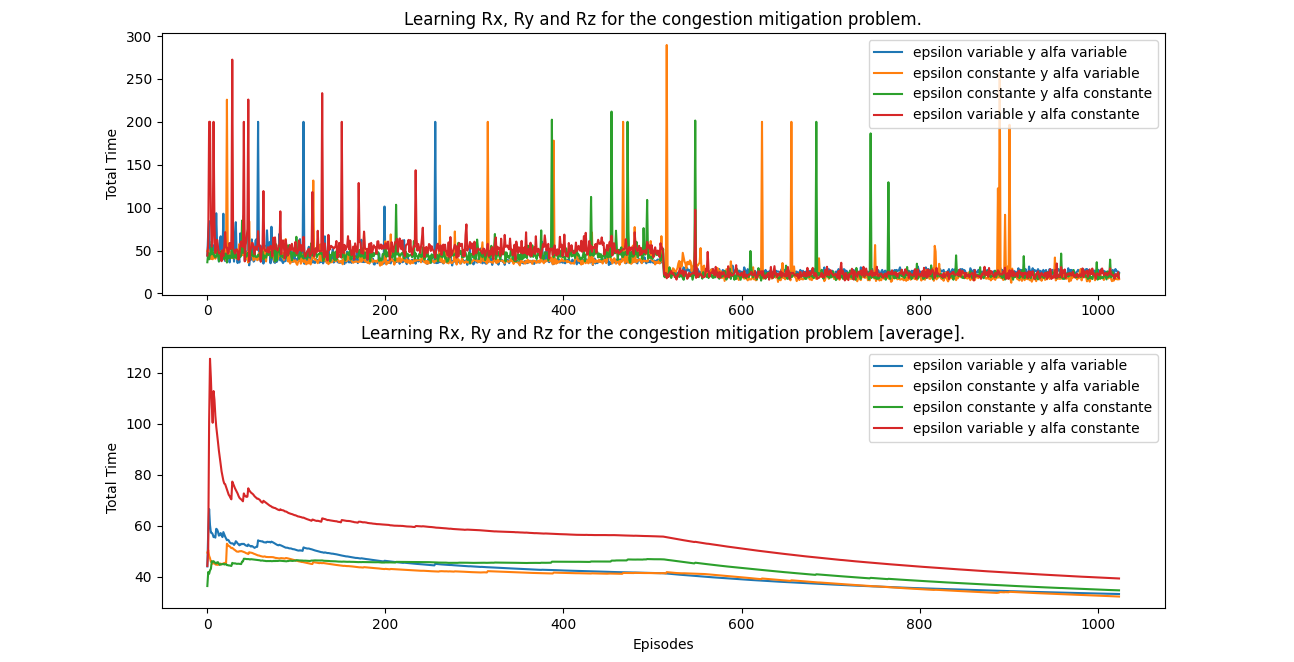
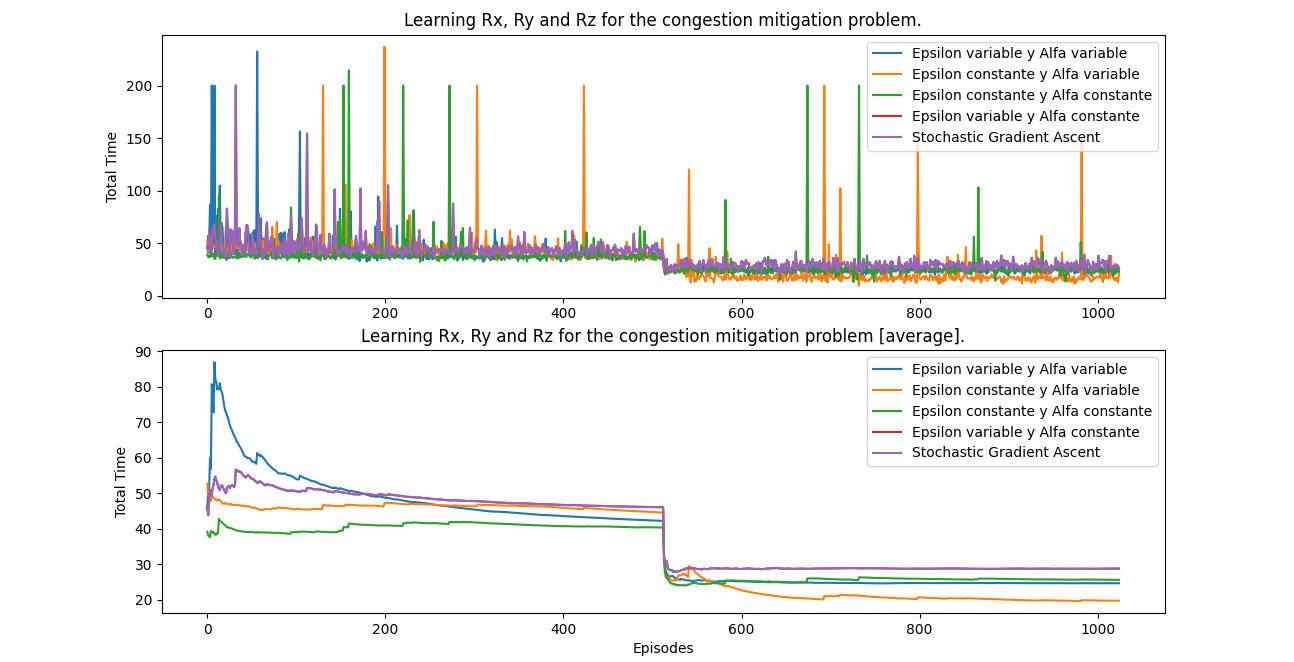
rl-qgt-stochastic

diff --git a/paper/rl_qgt_routing_stochastic.py b/paper/rl_qgt_routing_stochastic.py
@@ -1,4 +1,5 @@
 import copy
+from email import policy
 import time
 import pickle                      
 import random
@@ -10,7 +11,7 @@ from qiskit import QuantumCircuit, Aer, execute
 from qiskit.quantum_info import Operator
 from qiskit.extensions import RXGate, RYGate, RZGate          
 
-################################################## Quantum Game
+##################################################
 def generar_mapa(n1, n3):
     a = 0
     while (np.linalg.matrix_rank(a)!=n1):
@@ -181,8 +182,8 @@ def reward_qnet(rx, ry, rz, n3):
     if checkear_nozero([rx,ry,rz,1]) == 0:
         return 200
 
-    n1 = 10                                       # cantidad de ciudades
-    n2 = 100                                      # cantidad de paquetes
+    n1 = 10                                                                                         # cantidad de ciudades
+    n2 = 100                                                                                        # cantidad de paquetes
     p1 = [rx, ry, rz, 1]
 
     a = generar_mapa(n1, n3)                      # genero matriz
@@ -224,13 +225,13 @@ def reward_qnet(rx, ry, rz, n3):
 
     return (t1 + temp)
 
-################################################## Network settings
+##################################################
 
 HM_EPISODES = 2 * 512 + 1
 SHOW_EVERY = 16
 N_SIZE = 3
-n3 = [[14, 0.14],                    # distancias máximas
-      [0, 512, HM_EPISODES]]
+n3 = [[14,      0.14],                    # distancias máximas
+      [0,       512,     HM_EPISODES]]
 
 """
 HM_EPISODES = 2 * 4092 + 1
@@ -243,74 +244,9 @@ n3 = [[0.14, 14],                    # distancias máximas
 final_t = []
 final_m = []
 angulos = np.arange(0, 2 * np.pi, 2 * np.pi / np.power(2, N_SIZE))
-all_actions = [(rx,ry,rz) for rx in angulos for ry in angulos for rz in angulos] 
-
-################################################## Epsilon and Alfa
-
-start_q_table = None        # if we have a pickled Q table, we'll put the filename of it here.
-epsilon =   [[0.99, 0.991, '1/n'],   # epsilon variable y alfa variable
-             [0.1 , 1 , '1/n'],      # epsilon constante y alfa variable
-             [0.1 , 1 , 0.1],        # epsilon constante y alfa constante
-             [0.99 , 0.991 , 0.1]]   # epsilon variable y alfa constante
-
-for it in range(len(epsilon)):
-    print("ITERATION: {}.".format(it+1))
-    if start_q_table is None:
-        q_table = {}
-        n_actions = {}
-        for rx in angulos:
-            for ry in angulos:
-                for rz in angulos:
-                    q_table[(rx,ry,rz)] = -np.random.uniform(100, 200)    
-                    n_actions[(rx,ry,rz)] = 0     
-    else:
-        with open(start_q_table, "rb") as f:
-            q_table = pickle.load(f)
-
-    type = 0
-    episode_reward = []
-    episode_rewards = []
-    for episode in range(HM_EPISODES):
-        
-        if np.random.random() > epsilon[it][0]:
-            max_value = max(q_table.values())
-            action = [k for k, v in q_table.items() if v == max_value][0]
-        else:
-            action = random.choice(all_actions)
-
-        if episode > (n3[1][type + 1]):
-            type += 1
-
-        reward = -reward_qnet(action[0], action[1], action[2], n3[0][type])
-        episode_reward.append(reward)
-        episode_rewards.append(np.mean(episode_reward[n3[1][type]::]))
-
-        n_actions[action] += 1
-        if epsilon[it][2] == '1/n':
-            alfa = (1/n_actions[action])
-        else:
-            alfa = epsilon[it][2]
-        q_table[action] = q_table[action] + alfa * (reward - q_table[action])       
-        epsilon[it][0] *= epsilon[it][1]       
-
-        if episode % SHOW_EVERY == 0:
-            print("---> Episode: {}. Epsilon: {:.4f}. Q-table: {:.4f}. Reward: {:.4f}. Action: {}.".format(np.round(episode,4), np.round(epsilon[it][0],4), np.round(q_table[action], 4), np.round(reward,4), np.round(action,4)))            
-
-    max_value = max(q_table.values())
-    action = [k for k, v in q_table.items() if v == max_value][0]
-    output = output_state(action[0], action[1], action[2])
-    print("\nBest action: Rx = {}. Ry = {}. Rz = {}.".format(action[0], action[1], action[2]))    
-    print("Total time = {} secods.".format(-q_table[action]))
-    print("Quantum state output = {}.\n".format(output))
-
-    episode_reward = np.negative(np.array(episode_reward))
-    episode_rewards = np.negative(np.array(episode_rewards))
-    final_t.append(episode_reward)
-    final_m.append(episode_rewards)
-
-################################################## Stochastic Gradient Ascent
 
 alfa = 0.1
+all_actions = [(rx,ry,rz) for rx in angulos for ry in angulos for rz in angulos] 
 start_h_table = None        # if we have a pickled Q table, we'll put the filename of it here.
 
 if start_h_table is None:
@@ -375,27 +311,17 @@ episode_rewards = np.negative(np.array(episode_rewards))
 final_t.append(episode_reward)
 final_m.append(episode_rewards)
 
-################################################## Algorithms Comparison
-
 fig, axs = plt.subplots(2, 1) #,figsize=(30,20))
 axs[0].set_title("Learning Rx, Ry and Rz for the congestion mitigation problem.")
-axs[0].plot(final_t[0], label = "Epsilon variable y Alfa variable")
-axs[0].plot(final_t[1], label = "Epsilon constante y Alfa variable")
-axs[0].plot(final_t[2], label = "Epsilon constante y Alfa constante")
-axs[0].plot(final_t[3], label = "Epsilon variable y Alfa constante")
-axs[0].plot(final_t[3], label = "Stochastic Gradient Ascent")
+axs[0].plot(final_t[0], label = "Stochastic Gradient Ascent")
 axs[0].set_ylabel("Total Time")
 axs[0].legend(loc='upper right')
 axs[1].set_title("Learning Rx, Ry and Rz for the congestion mitigation problem [average].")
-axs[1].plot(final_m[0], label = "Epsilon variable y Alfa variable")
-axs[1].plot(final_m[1], label = "Epsilon constante y Alfa variable")
-axs[1].plot(final_m[2], label = "Epsilon constante y Alfa constante")
-axs[1].plot(final_m[3], label = "Epsilon variable y Alfa constante")
-axs[1].plot(final_m[3], label = "Stochastic Gradient Ascent")
+axs[1].plot(final_m[0], label = "Stochastic Gradient Ascent")
 axs[1].set_ylabel("Total Time")
 axs[1].set_xlabel("Episodes")
 axs[1].legend(loc='upper right')
 plt.show()
 
-"""with open(f"qtable-{int(time.time())}.pickle", "wb") as f:
+"""with open(f"htable-{int(time.time())}.pickle", "wb") as f:
     pickle.dump(q_table, f)"""
